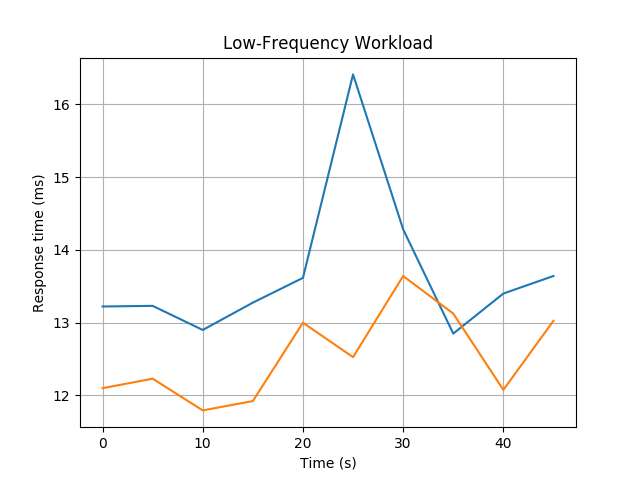
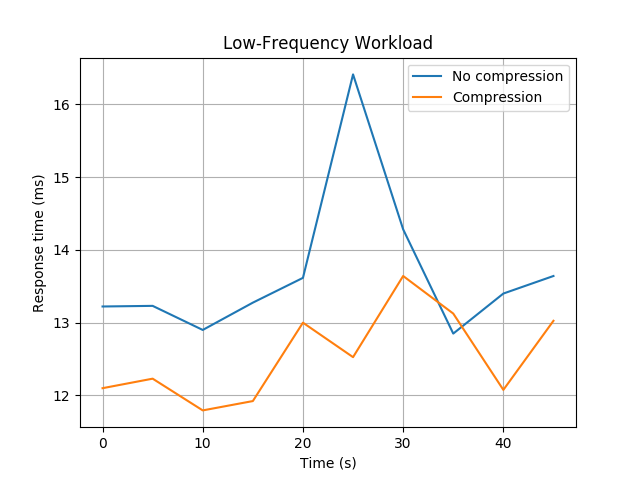
high/low frequency graph

Changed region(s): [[0.625, 0.125, 0.875, 0.2188]]

diff --git a/results/roberto_results/plotting_low_frequency.py b/results/roberto_results/plotting_low_frequency.py
@@ -29,8 +29,9 @@ for line2 in file2:
 
 #plotting graph
 fig, ax = plt.subplots()
-ax.plot(xValues, yValues)
-ax.plot(xValues2, yValues2)
+ax.plot(xValues, yValues, label='No compression')
+ax.plot(xValues2, yValues2, label='Compression')
+ax.legend()
 ax.set(xlabel='Time (s)', ylabel='Response time (ms)', title='Low-Frequency Workload')
 ax.grid()
 fig.savefig("high_frequency.png")

diff --git a/results/roberto_results/plotting_high_frequency.py b/results/roberto_results/plotting_high_frequency.py
@@ -29,8 +29,9 @@ for line2 in file2:
 
 #plotting graph
 fig, ax = plt.subplots()
-ax.plot(xValues, yValues)
-ax.plot(xValues2, yValues2)
+ax.plot(xValues, yValues, label='No cache')
+ax.plot(xValues2, yValues2, label='Cache')
+ax.legend()
 ax.set(xlabel='Time (s)', ylabel='Response time (ms)', title='High-Frequency Workload')
 ax.grid()
 fig.savefig("high_frequency.png")
